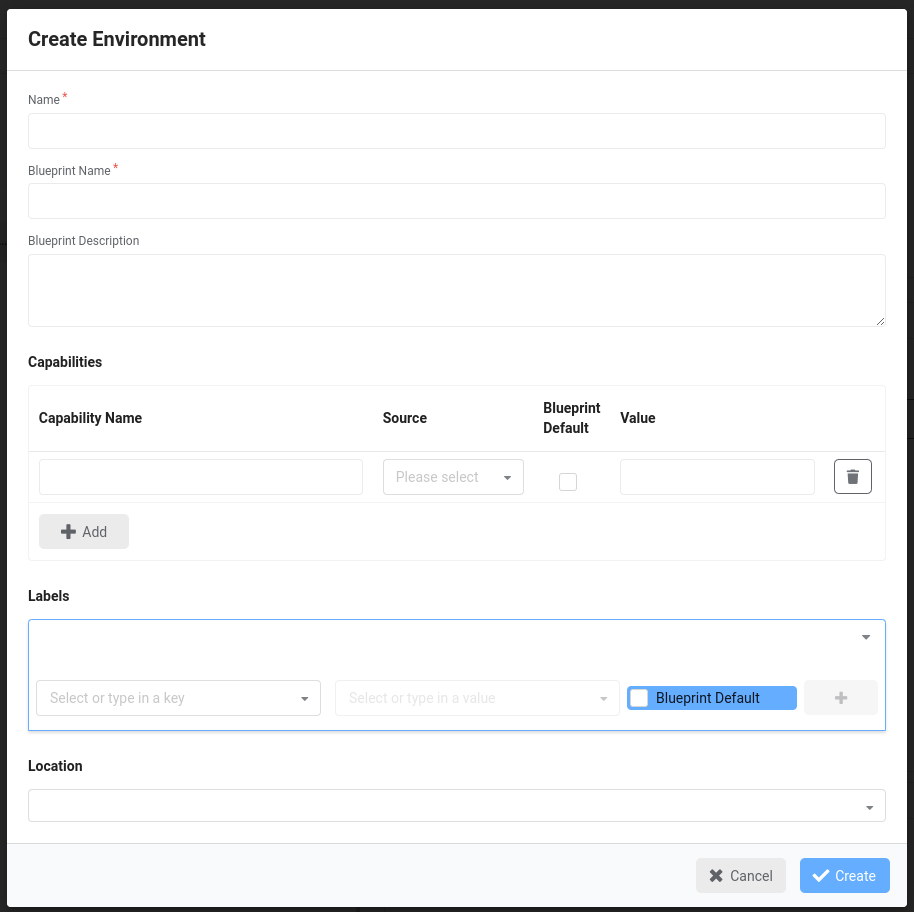
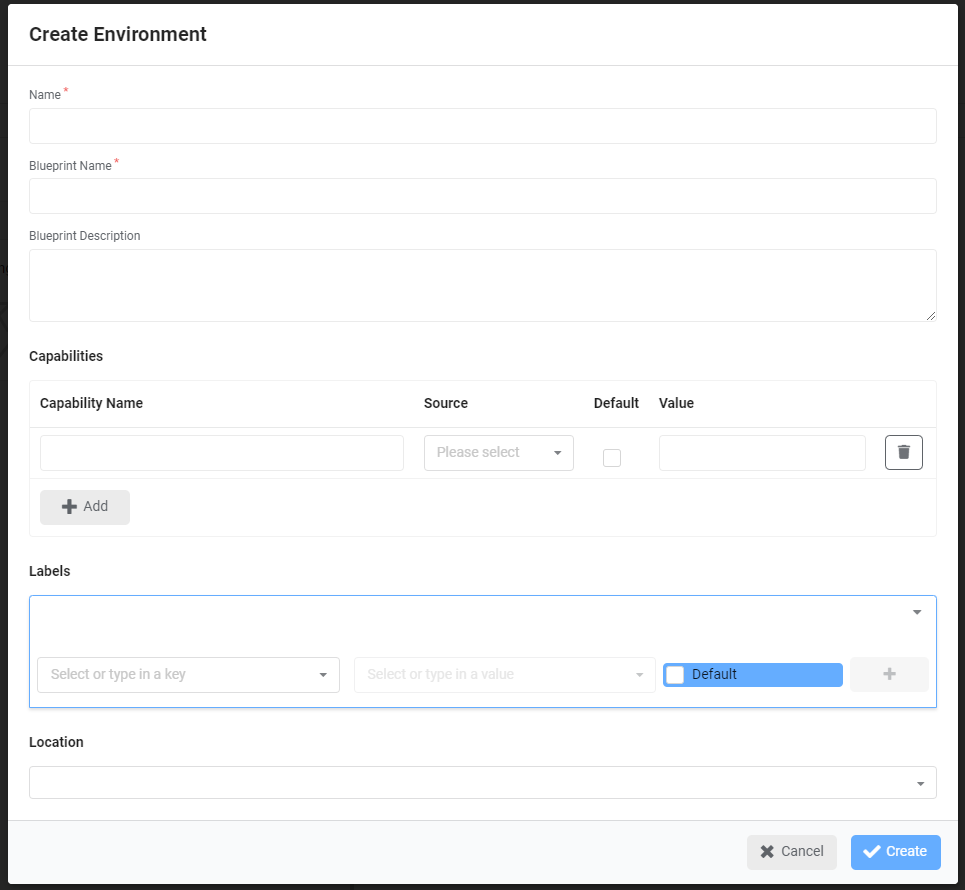
RD-7133 Create Environment Adjustments (#2538)

diff --git a/content/working_with/console/widgets/environmentButton.md b/content/working_with/console/widgets/environmentButton.md
@@ -28,7 +28,7 @@ Rest of the fields are optional:
 
 * `Blueprint Description` - description of the blueprint that will be generated
 * `Capabilities` - capabilities of the blueprint that will be generated
-* `Labels` - labels of the environment blueprint/deployment to be created (depending on the `Blueprint Default` checkbox value) 
+* `Labels` - labels of the environment blueprint/deployment to be created (depending on the `Default` checkbox value) 
 * `Location` - site name to be set for the environment deployment to be created
 
 Once the `Create` button is clicked the environment blueprint will be generated and environment deployment creation modal will show up, as described in [From Blueprint]({{< relref "#from-blueprint" >}}).
